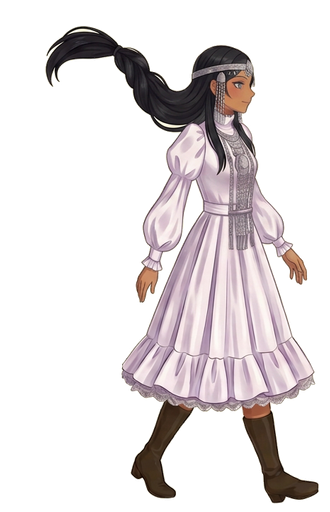
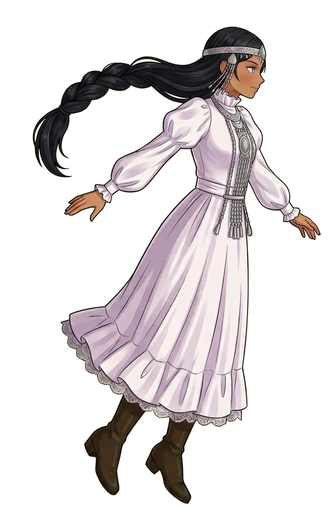
Вернул длинные рукава в походку и прыжок

diff --git a/Concepts/jump/slice_jump.py b/Concepts/jump/slice_jump.py
@@ -1,17 +1,19 @@
 """Режет лист прыжка на 2 кадра и кладёт их в Assets/Art/Heroine/Jump.
 
-Почему не полный Concepts/walk/slice_walk.py: тот рассчитан ровно на три
-фигуры в ряд, а модель на листе прыжка даёт три — из них средняя оказалась
-обычным шагом, а не фазой прыжка. Поэтому здесь та же логика (альфа снимается
-заливкой от границы по цвету фона, каждая фигура приводится к общей высоте,
-головы ставятся на одну точку), но берутся фигуры 1 и 3.
+Почему не полный Concepts/walk/slice_walk.py: тот режет лист на три кадра,
+а прыжку нужно два. Логика та же (альфа снимается заливкой от границы по
+цвету фона, каждая фигура приводится к общей высоте, головы ставятся на
+одну точку).
 
 Почему не поза с подтянутыми коленями (Concepts/jump/jump_sheet_v1b.png):
 там фигуры 482 и 619 px, разница 28%. Прыжок в платформере обязан держать
 рост: при выравнивании по общей высоте сжатая поза растянулась бы вдвое, а
 без выравнивания прыжок выглядел бы как уменьшение героини. Поэтому взяты
-позы в полный рост (649 и 674 px, разброс 4%) — разлетающиеся руки и коса
+позы в полный рост (887 и 858 px, разброс 3.3%) — разлетающиеся руки и коса
 считываются как «в воздухе», а размер остаётся прежним.
+
+Рукава в исходном стиле длинные — до запястья, со сборкой в кружевную
+манжету. Листы v1a/v2a без длинных рукавов брать нельзя.
 
 Рамка, высота, точка под ступнями и пивот — ровно как у кадров ходьбы, чтобы
 переход ходьба -> прыжок -> ходьба не дёргался.
@@ -22,14 +24,14 @@ import re
 import subprocess
 from collections import deque
 
-SHEET = 'Concepts/jump/jump_sheet_v1a.png'
+SHEET = 'Concepts/jump/jump_sheet_v2a.png'
 OUT_DIR = 'Assets/Art/Heroine/Jump'
 META_TPL = 'Assets/Art/Heroine/Walk/walk_1.png.meta'
 CANVAS_W, CANVAS_H = 330, 512
 TARGET_H = 479           # общая высота фигуры, как у кадров ходьбы
 FEET_Y = 504             # на какой высоте стоят ступни
 HEAD_FRACTION = 0.30
-PICK = (0, 2)           # фигуры 1 и 3, средняя (шаг) пропускается
+PICK = (0, 1)           # на этом листе ровно две фигуры: взлёт и падение
 
 os.makedirs(OUT_DIR, exist_ok=True)
 
@@ -181,8 +183,8 @@ print(f'дыр вычищено: {holes}')
 
 boxes = components(mask, W, H, 2000)
 print('фигур найдено:', len(boxes), '-> берём', [i + 1 for i in PICK])
-if len(boxes) < 3:
-    raise SystemExit('ожидалось 3 фигуры на листе, чтобы пропустить среднюю')
+if len(boxes) != 2:
+    raise SystemExit('ожидалось ровно 2 фигуры на листе прыжка')
 
 picked = [boxes[i] for i in PICK]
 heights = [b[3] - b[1] for b in picked]
@@ -222,8 +224,8 @@ for n, (x0, y0, x1, y1) in enumerate(picked, 1):
     os.remove(scaled)
     print(f'кадр {n}: {fw}x{fh} -> {sw}x{sh}, сдвиг {dx:+d}/{dy:+d}, {out}')
 
-    guid = hashlib.md5(('jump-v1-' + str(n)).encode()).hexdigest()
-    sid = hashlib.md5(('jump-v1-sprite-' + str(n)).encode()).hexdigest()
+    guid = hashlib.md5(('jump-v2-' + str(n)).encode()).hexdigest()
+    sid = hashlib.md5(('jump-v2-sprite-' + str(n)).encode()).hexdigest()
     meta = open(META_TPL, encoding='utf-8').read()
     meta = (meta.replace(re.search(r'guid: ([0-9a-f]{32})', meta).group(1), guid)
                 .replace(re.search(r'spriteID: ([0-9a-f]{32})', meta).group(1), sid))

diff --git a/Concepts/level_build.py b/Concepts/level_build.py
@@ -475,8 +475,8 @@ assert n == 1, f'спрайт героини: {n}'
 # 12 fps давали цикл 0.67 с, то есть 1.78 роста пути за цикл: ноги
 # переступали вдвое реже, чем шёл корпус, и это читалось как скольжение.
 # Четыре кадра на тех же 12 fps дают 0.33 с ~= 0.9 роста — почти натура.
-JUMP = ['6daf268587750afe7fbb340b4fe37705',     # взлёт: руки согнуты у груди
-        '336c0b56e3212ee017ac0d1395292e71']     # падение: руки в стороны, коса вверх
+JUMP = ['81278e73ff2cb55a9cdaa833e4ff2aab',     # взлёт: предплечья согнуты у груди
+        'ca0867bd6fc2c7f48e720616b6c1516d']     # падение: руки в стороны, коса вверх
 ATTACK = ['dc1783b3a5c9607e12c781b8f88ebef7',   # замах
           'e58d2f83e7543184b89c6ebf520dc6f6',   # выпад с ножом
           'be4bc24d2bc77d76f96772ae3e2efa11']   # возврат
@@ -488,6 +488,8 @@ frames = '\n'.join(
 # Обе руки в каждом кадре висят вдоль тела, слегка согнуты, и поднимаются
 # ровно настолько же, как левая: прежний вариант выбрасывал правую руку
 # вперёд на уровень пояса, и шаг читался как нелепый взмах.
+# Рукава длинные, до запястья, как в idle_front и в кадрах атаки: генератор
+# дважды сам укорачивал их до плеча, и это ломало стиль.
 s, n = re.subn(
     r'(--- !u!114 &400000006\nMonoBehaviour:.*?  m_EditorClassIdentifier: \n)'
     r'(?:(?!--- !u!).)*',

diff --git a/Concepts/walk/slice_walk.py b/Concepts/walk/slice_walk.py
@@ -21,7 +21,7 @@ import subprocess
 import hashlib
 from collections import deque
 
-SHEET = 'Concepts/walk/walk_sheet_v9a.png'
+SHEET = 'Concepts/walk/walk_sheet_v10b.png'
 OUT_DIR = 'Assets/Art/Heroine/Walk'
 CANVAS_W, CANVAS_H = 330, 512
 WALK_PIVOT_PX = 165      # пивот прежних кадров: ровно середина холста
